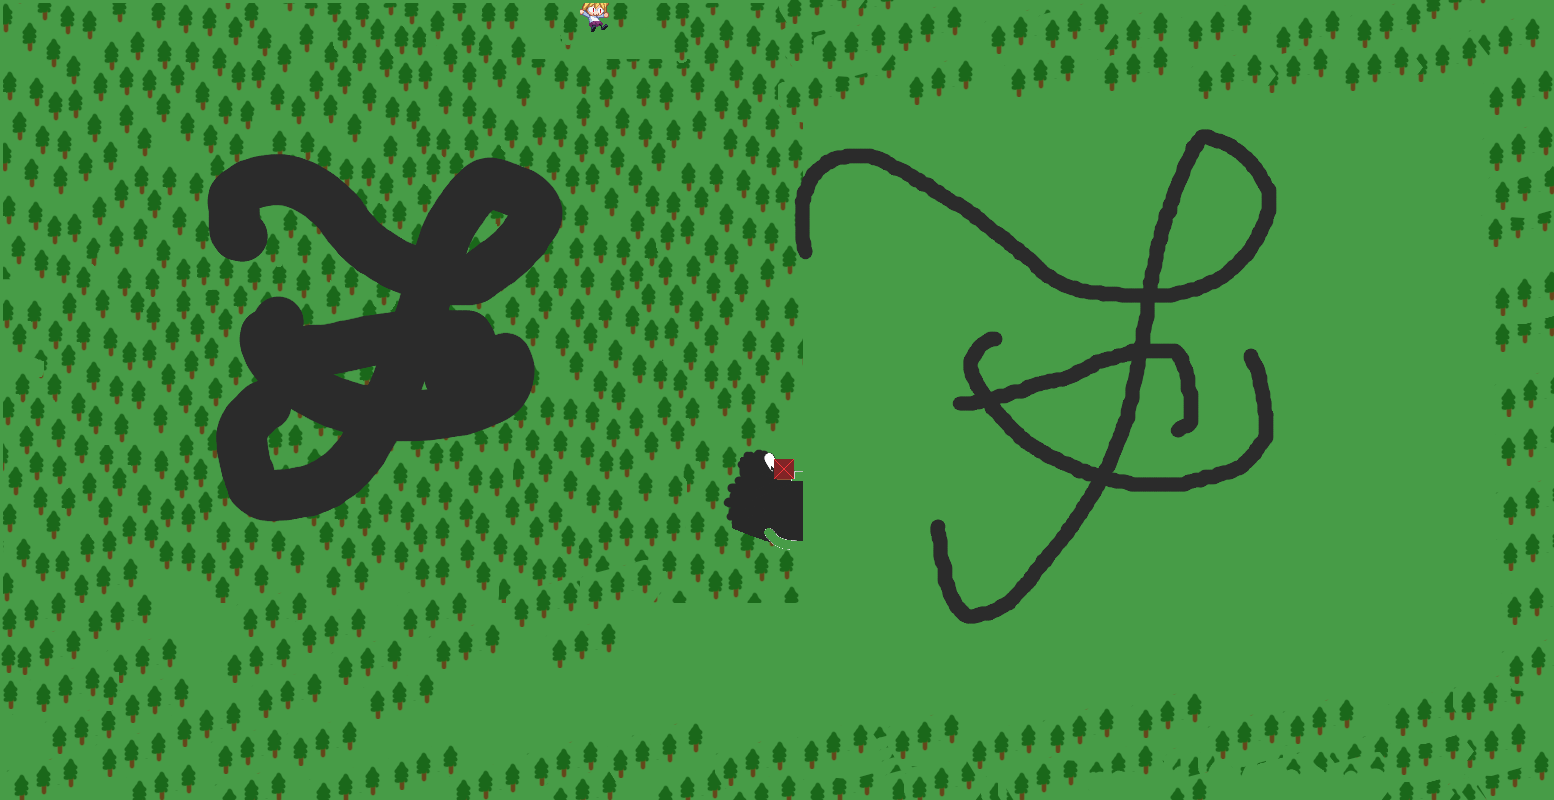
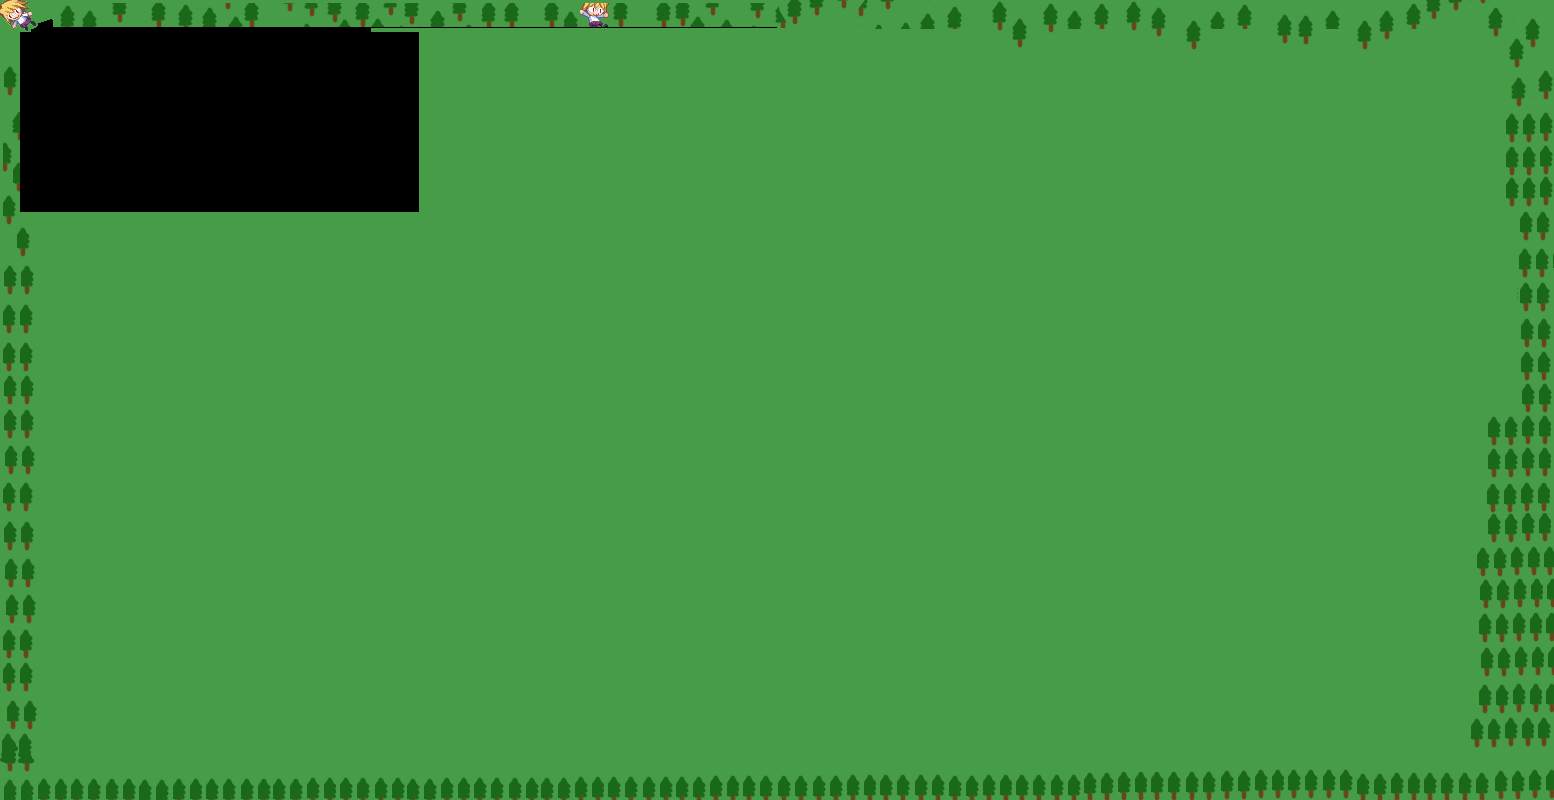
Epický update spritů

diff --git a/SRC/Dorifto.py b/SRC/Dorifto.py
@@ -10,7 +10,7 @@ size = width, height = 1545, 800
 
 screen = pygame.display.set_mode(size)
 
-pygame.display.set_caption("D is for Drift")
+pygame.display.set_caption("Trutnov drift")
 
 bg_image = pygame.image.load("Grass.png")
 Track = pygame.image.load("Track.png")
@@ -25,13 +25,13 @@ car_image = pygame.image.load("Lidl_car.png")
 
 class Car:
     def __init__(self, image):
-        self.x = 58
+        self.x = 60
         self.y = 43
         self.image = image
         self.perm_image = image
         self.angle = 1
         self.direction = 180
-        self.speed = 0.1
+        self.speed = 1.5
         self.antispeed = 1
         self.x_shift = 0
         self.y_shift = 0
@@ -39,7 +39,7 @@ class Car:
         self.acc_mult = 0.25
         self.drift = False
         self.drift_distance = 0
-        self.colliding = False
+        self.colliding = True 
 
     def display(self, screen):
         direction = self.direction*-1
@@ -54,7 +54,7 @@ class Car:
 
     def check_wall_collision(self, needle):
         collision = False
-        if self.x > 2175:
+        if self.x > 1520:
             self.speed = 0.5
             if needle.degrees_from_0 < 120:
                 needle.degrees_from_0 += 8
@@ -67,7 +67,7 @@ class Car:
             self.x += self.speed
 
 
-        if self.y > 1175:
+        if self.y > 780:
             self.speed = 1
             self.y -= self.speed
             if needle.degrees_from_0 < 120:
@@ -89,7 +89,7 @@ class Car:
 
     def drive(self):
         if self.speed == 0:
-            self.speed = 0.2
+            self.speed = 10
         change_x = math.cos(math.radians(int(90 - self.direction))) * self.speed
         change_y = math.sin(math.radians(int(90 - self.direction))) * self.speed
 
@@ -101,7 +101,7 @@ class Car:
     def accelerate(self, needle):
         self.speed2 = self.speed
         if self.speed < 1:
-            self.acc_mult = 1.025
+            self.acc_mult = 10.025
         elif self.speed < 3:
             self.acc_mult = 1.025
         elif self.speed < 4:
@@ -186,7 +186,7 @@ y_shift = 0
 
 prev = datetime.utcnow()
 prev_fps_switch = datetime.utcnow()
-FPS = 60
+FPS =   0
 fps_toggle = False
 
 
